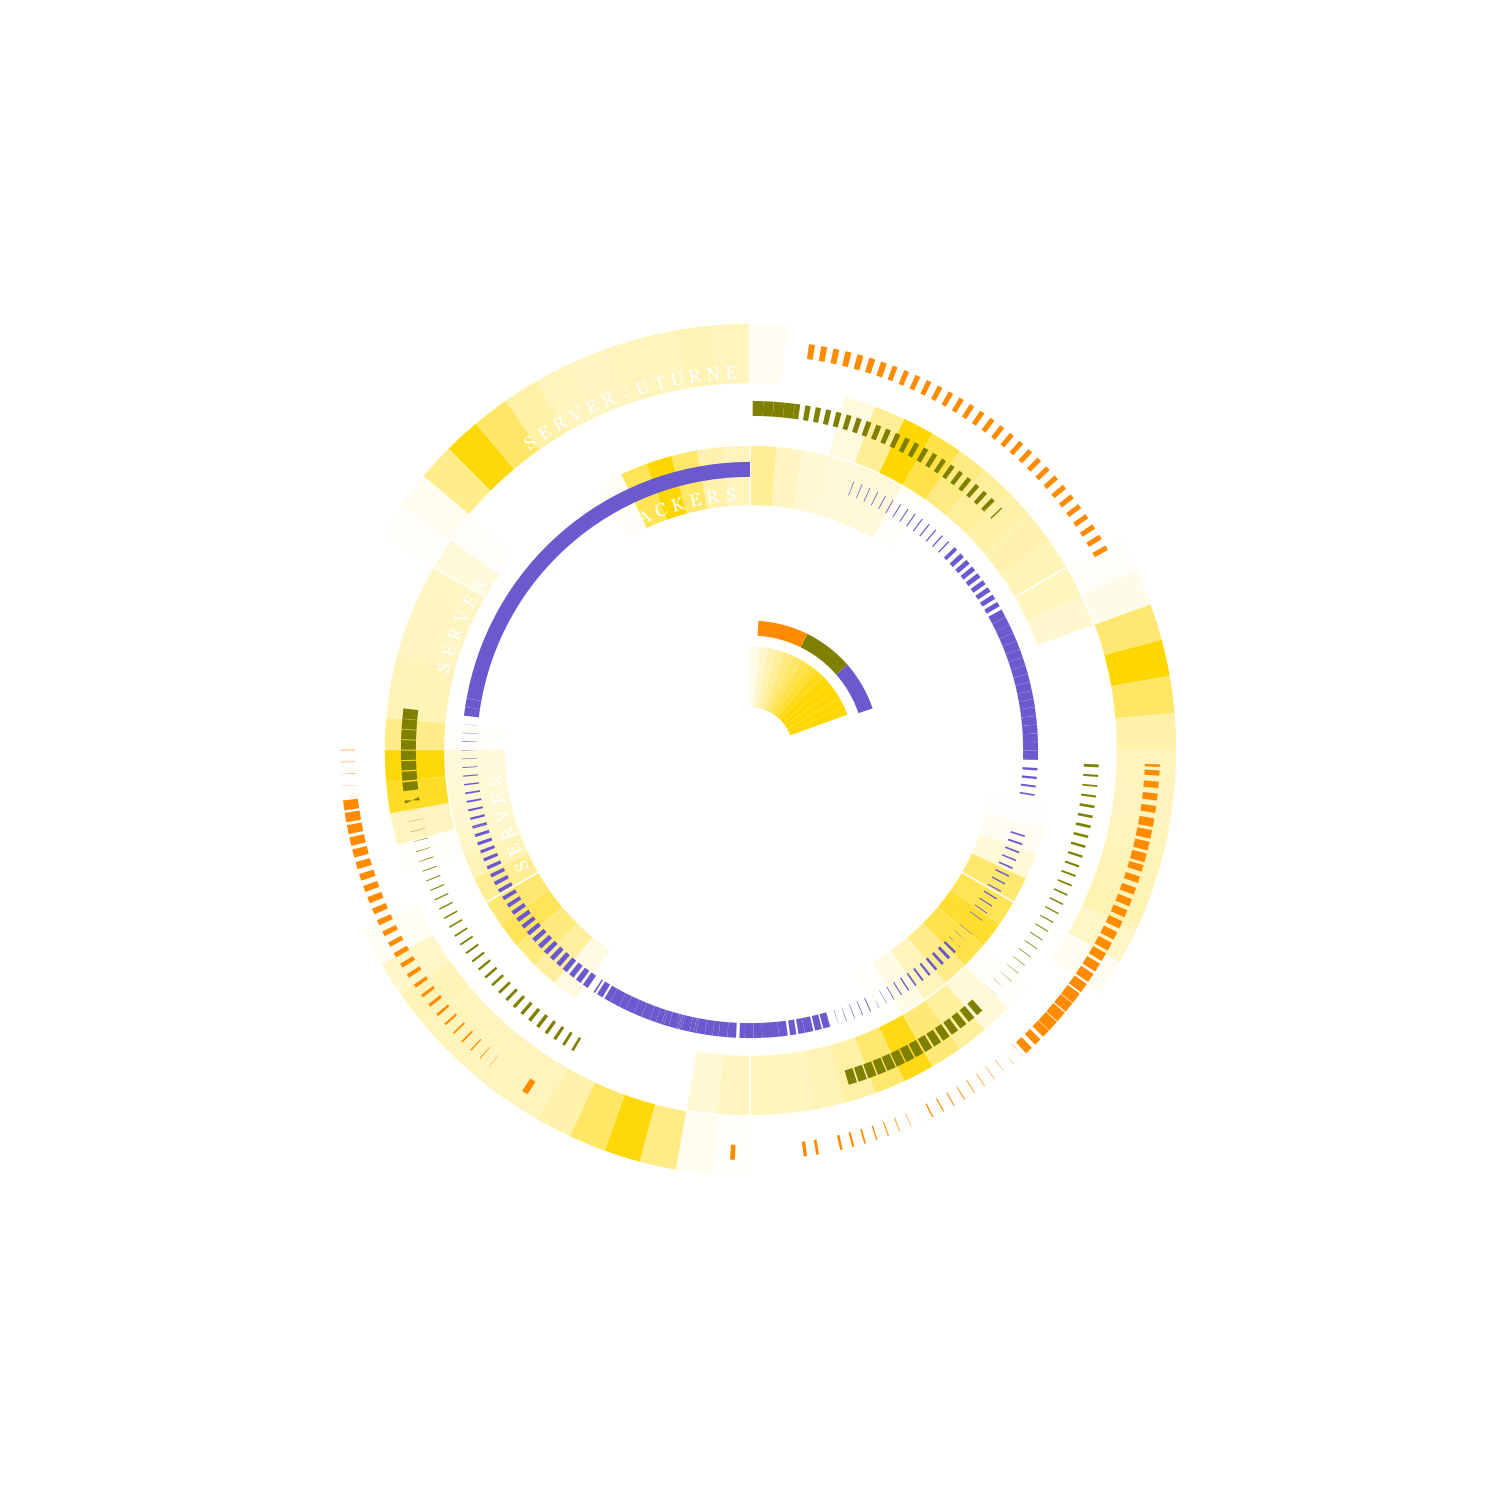
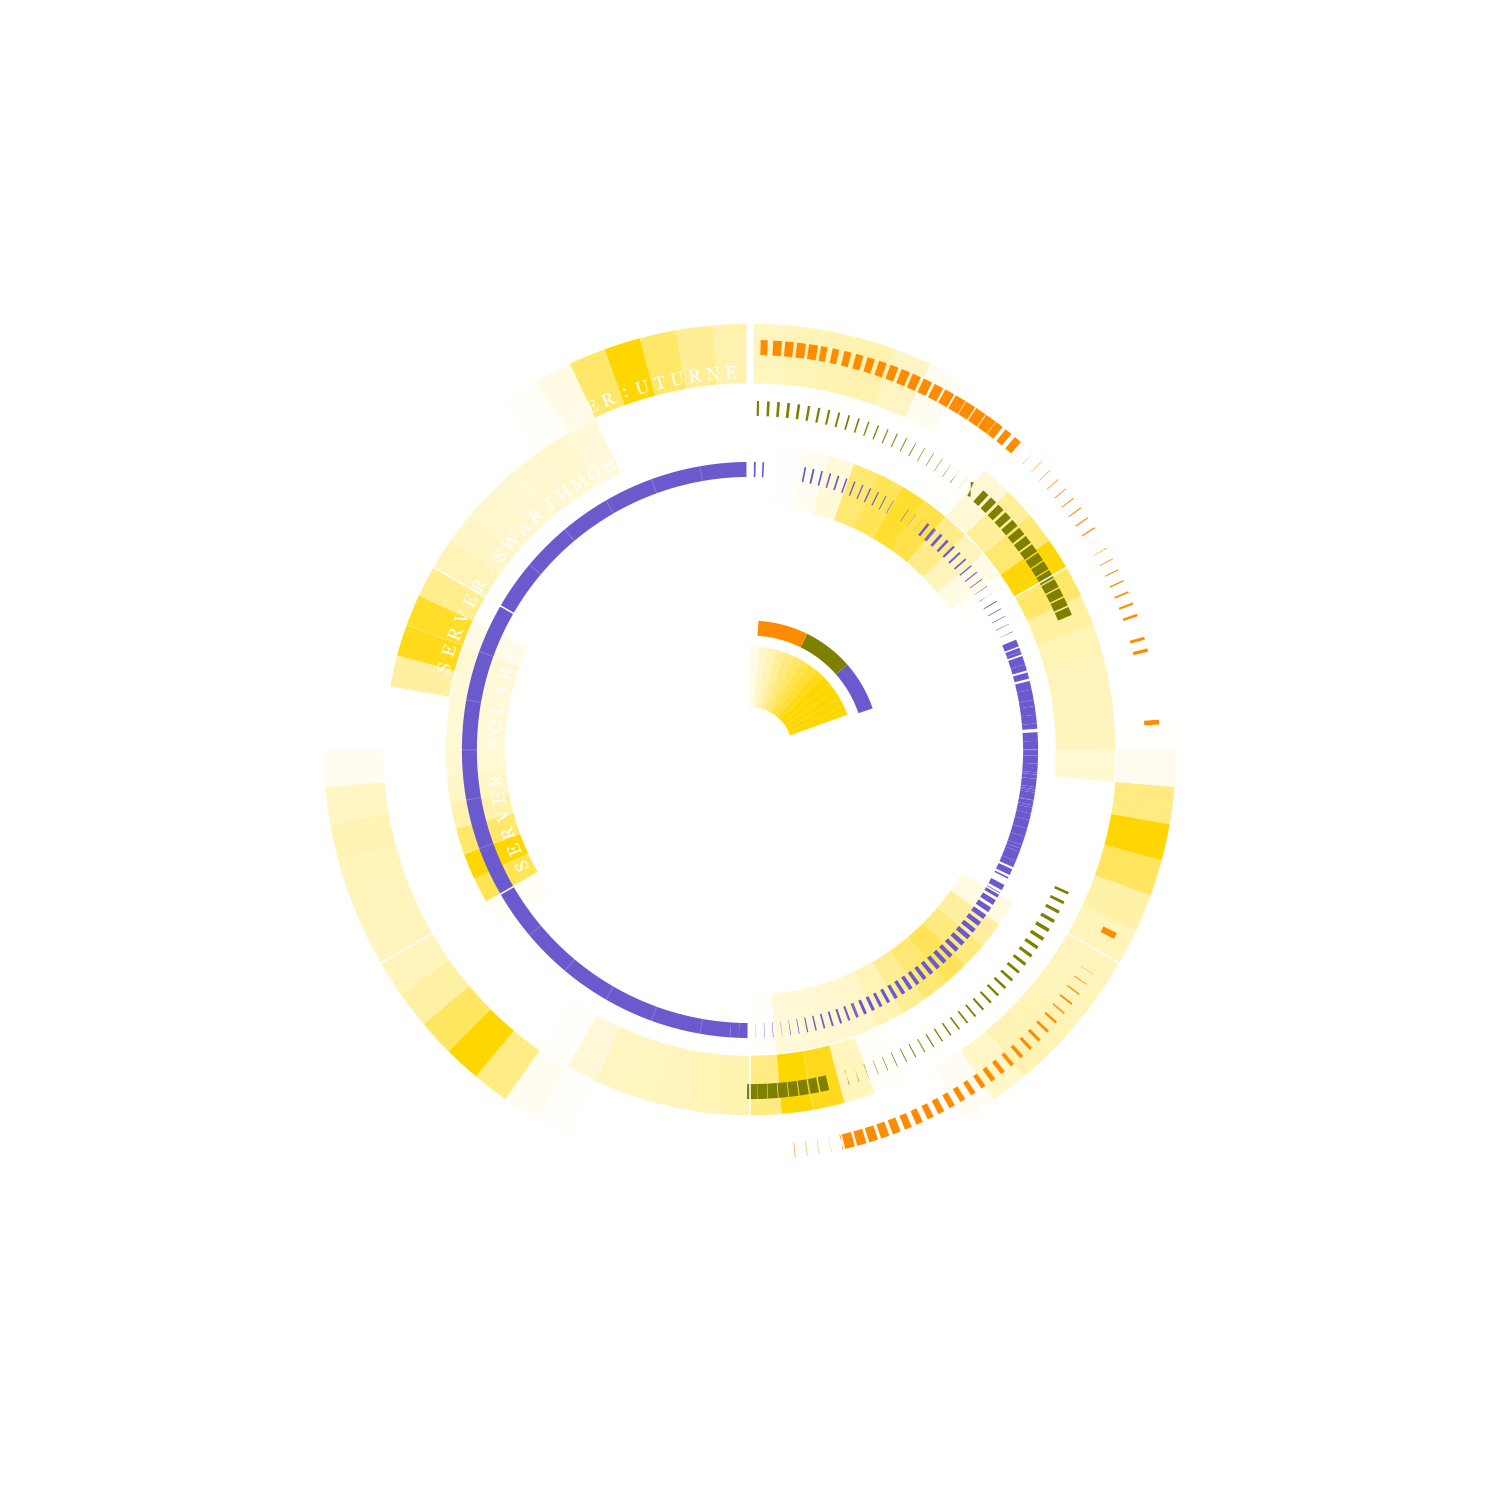
viz details

Changed region(s): [[0.2147, 0.2147, 0.7973, 0.7973]]

diff --git a/backend/createHTML/viz.py b/backend/createHTML/viz.py
@@ -23,8 +23,12 @@ h = 1500
 Pi = 3.14159
 hours = 72
 ah = (2*Pi)/hours #angle of an hour
-ring_rad = 61 
-radius = 61*10
+
+ring_rad = 61
+radius = ring_rad*10
+
+key_ring_rad = 61  
+key_radius = key_ring_rad*10
 start_ring = 0
 start_radius_data = 4
 debug_mode =0
@@ -149,15 +153,15 @@ def draw_ring(ccDict, ring_number, energy_parameter,timeZ, myTimeZone):
     for i, current in enumerate(df_hours[energy_parameter].tolist()):
         if (debug_mode):
             print("Current: ", current)
-        draw_sun(ring_number, i, current) 
+        draw_sun(ring_number, i, current, ring_rad) 
 
     return df_hours
 
 # draw_sun(ring number, x loc, y loc, stroke weight, _hour, _alpha)
-def draw_sun(server_no, hour, alpha):
+def draw_sun(server_no, hour, alpha, rad):
     a = -Pi/2 + (hour*ah)
-    sw = ring_rad
-    arc = g.arc(r = server_no*ring_rad-(ring_rad/2)+(ring_rad*start_ring), xy = [w/2, h/2], a1 = a, a2 = a+ah , stroke=(1, 0.84, 0, alpha), stroke_width= sw)
+    sw = rad
+    arc = g.arc(r = server_no*rad-(rad/2)+(rad*start_ring), xy = [w/2, h/2], a1 = a, a2 = a+ah , stroke=(1, 0.84, 0, alpha), stroke_width= sw)
     arc.draw(surface)
     #DEBUGGING TEXT ON GRAPH
     # text = g.text(str(alpha), fontfamily="Georgia",  fontsize=10, fill=(0,0,0), xy = [w/2+200, h/2])
@@ -265,8 +269,8 @@ def tzOffset(checkTZ, myTimeZone):
     return offsetDir*(abs((int(myOffset)/100) - (int(theirOffset)/100)))#this only offsets to the hours... there are a few timezones in India and Nepal that are at 30 and 45 minutes
 
 
-def text_curve(server_no, message, angle, spacing, ts):
-    cr = server_no*ring_rad+(ring_rad/5)+(ring_rad*start_ring)
+def text_curve(server_no, message, angle, spacing, ts, rad):
+    cr = server_no*rad+(rad/5)+(rad*start_ring)
   # Start in the center and draw the circle
     # circle = g.circle(r=cr-(ring_rad/2), xy = [w/2, h/2], stroke=(1,0,0), stroke_width= 1.5)
     # circle.draw(surface)
@@ -304,13 +308,16 @@ def text_curve(server_no, message, angle, spacing, ts):
 def lines(interval, sw, opacity):
         #for loop for lines 
     a = -(Pi/2)
+    s = 7
     interval = (interval/72)*2*Pi
     while a < (Pi*2-(Pi/2)):
+        if a>-(Pi/2):
+            s=sw
         xc = w/2 + ring_rad*4 * math.cos(a)
         yc = h/2 + ring_rad*4 * math.sin(a)
         x1 = w/2 + (radius-10) * math.cos(a)
         y1 = h/2 + (radius-10) * math.sin(a)
-        line = g.polyline(points=[(x1,y1), (xc,yc)], stroke_width=sw, stroke=(1,1,1,opacity))
+        line = g.polyline(points=[(x1,y1), (xc,yc)], stroke_width=s, stroke=(1,1,1,opacity))
         line.draw(surface)
         a = a + interval
     # print("finished drawing lines")
@@ -329,13 +336,13 @@ def drawPOEKey(sysC):
 
         draw_server_arc(1.5, start_angle, start_angle-Pi/8, col)
         start_angle = start_angle-Pi/8
-    text_curve(1.8,"DURATION AS ACTIVE SERVER:", start_angle, 12, 18)
+    text_curve(1.8,"DURATION AS ACTIVE SERVER:", start_angle, 12, 18, key_ring_rad)
     al = 0.1
     for i in range(14):
-        draw_sun(1.7, i, al)
+        draw_sun(1.7, i, al, key_ring_rad)
         al = al + 0.1
-    text_curve(1.3,"SUNLIGHT AT EACH SERVER:", start_angle, 12, 18)
-    text_curve(2.3,"------------------------------KEY-------------------------------KEY-------------------------------KEY", 0, 10, 18)
+    text_curve(1.3,"SUNLIGHT AT EACH SERVER:", start_angle, 12, 18, key_ring_rad)
+    text_curve(2.3,"------------------------------KEY-------------------------------KEY-------------------------------KEY", 0, 10, 18, ring_rad)
 
 
     
@@ -372,6 +379,11 @@ def main():
     print("IP List:")
     print (dstIP)
     print (serverNames)
+
+    # ring_rad=95-(6*len(dstIP))
+
+    print("ring radius:")
+    print(ring_rad)
 
     #in the future - convert everything from charge controller and poe log to UTC and then convert based on local time...
     timeZones = []
@@ -422,7 +434,7 @@ def main():
         #draw sun data for each server
         draw_ring(item,i+start_radius_data+1, energyParam,timeZones[i], myTimeZone)
         # print name of each server
-        text_curve(i+start_radius_data, "SERVER:"+server_names[i], 0, 18, 18)
+        text_curve(i+start_radius_data, "SERVER:"+server_names[i], 0, 18, 18, ring_rad)
         
 
     
@@ -430,10 +442,7 @@ def main():
     sortPOE(log, timeZones, myTimeZone)
     # print("dfPOE.shape", dfPOE.shape)
     # print(dfPOE)
-    #lines(interval in house, stroke weight, opacity)
-    lines(2, 1, 0.2)
-    lines(12, 1.5, 1)
-    circles(1.5, 1)
+
     # draw_server_arc(0, 0, Pi, (1,0,0))
     drawPOEKey(sysC)
 
@@ -455,23 +464,12 @@ def main():
 
     print("sysC:")
     print(sysC)
-    # # initialize surface
-    # surface = g.Surface(width=w, height=h) # in pixels
-
-    # text = g.text("Hello World", fontfamily="Georgia",  fontsize=10, fill=(0,0,0), xy=(100,100), angle=Pi/12)
-    # text.draw(surface)
-
-
-
-
-    # draw_sun(4, w/2, h/2, 20, 0, 0.1) 
-    # draw_sun(4, w/2, h/2, 20, 1, 0.5) 
-    # draw_sun(4, w/2, h/2, 20, 2, 1) 
-
-    # #def text_curve(cr, message, angle, spacing, ts):
-    # text_curve(100, "Server 1", 0, 0, 40)
-
-    # draw_server_arc(2, 0, 3*Pi/2, (1,0,0))
+    
+    #lines(interval in house, stroke weight, opacity)
+    lines(2, 1, 0.2)
+    lines(12, 1.5, 1)
+    
+    circles(1.5, 1)
 
     # Now export the surface
     surface.get_npimage() # returns a (width x height x 3) numpy array
